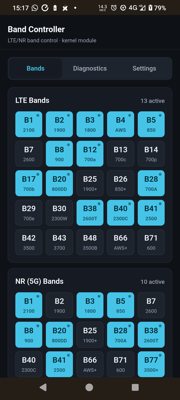
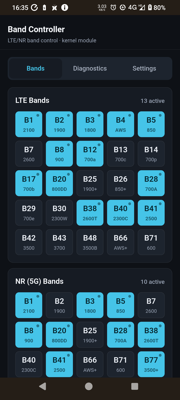
README: version-agnostic, centered 3-tab screenshots with captions

diff --git a/README.md b/README.md
@@ -21,11 +21,23 @@ A standalone KernelSU module for LTE/NR band control and modem diagnostics on Qu
 
 ## Screenshots
 
-The web UI: LTE band tiles with live counts, and live diagnostics (RSRP/RSRQ, registration chips, signal graph).
+<p align="center">
+  <img src="bands.png" alt="Bands tab" width="180" />
+  <br />
+  <em>Bands tab — LTE/NR band tiles with live active counts</em>
+</p>
 
-![Bands tab - LTE band tiles with live count](bands.png)
+<p align="center">
+  <img src="diag.png" alt="Diagnostics tab" width="180" />
+  <br />
+  <em>Diagnostics tab — live signal graph, RSRP/RSRQ, registration chips</em>
+</p>
 
-![Diagnostics tab - live signal and registration](diag.png)
+<p align="center">
+  <img src="settings.png" alt="Settings tab" width="180" />
+  <br />
+  <em>Settings tab — config summary, presets, export/import</em>
+</p>
 
 ## Features
 
